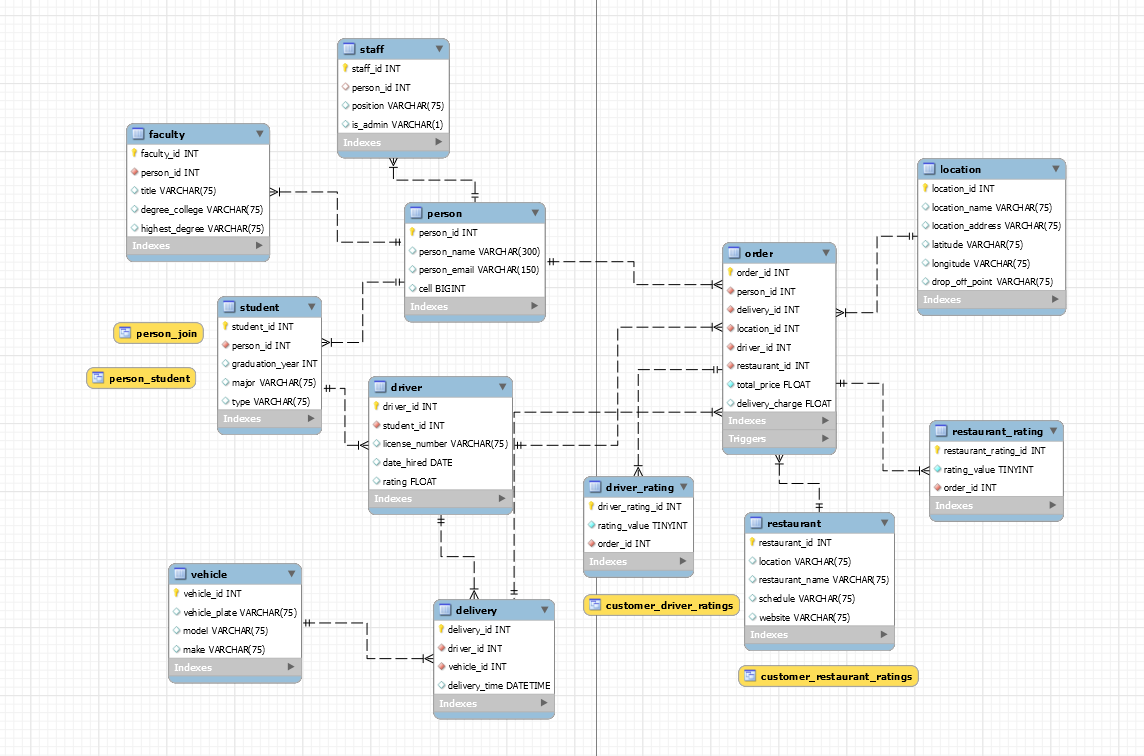
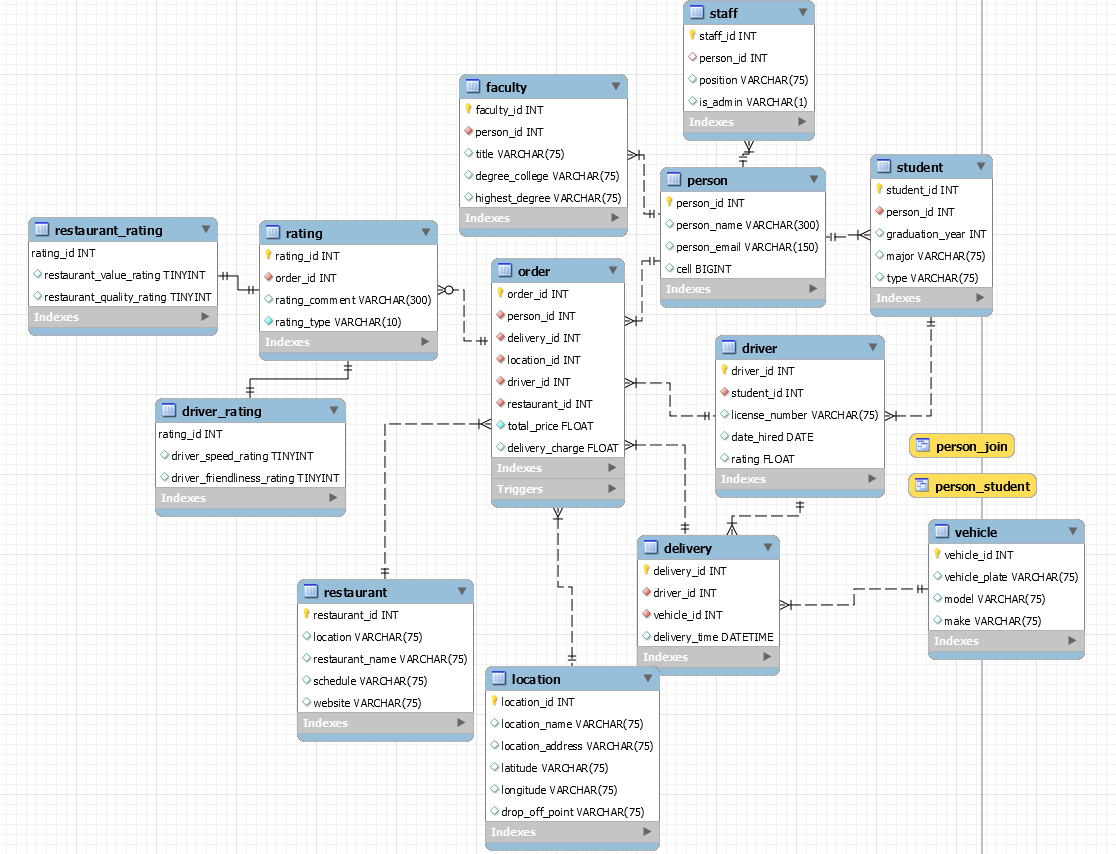
Update DB schema to match new business rule
This change was done to meet the requirement for super type and subtype entities

Changed region(s): [[0.0, 0.0, 0.9749, 1.0], [0.853, 0.8214, 0.8835, 0.8519]]

diff --git a/Deliverables/Milestone 2/database_dictionary.html b/Deliverables/Milestone 2/database_dictionary.html
@@ -38,6 +38,7 @@
 <li><a href="#location">location </a></li>
 <li><a href="#order">order </a></li>
 <li><a href="#person">person </a></li>
+<li><a href="#rating">rating </a></li>
 <li><a href="#restaurant">restaurant </a></li>
 <li><a href="#restaurant_rating">restaurant_rating </a></li>
 <li><a href="#staff">staff </a></li>
@@ -56,10 +57,10 @@
         <th>Default</th>
         <th>Comment</th>
         </tr>
-<tr><td>delivery_id</td><td>INT</td><td>Yes</td><td>Yes</td><td>No</td><td></td><td></td></tr>
-<tr><td>driver_id</td><td>INT</td><td>Yes</td><td>No</td><td>Yes</td><td></td><td></td></tr>
-<tr><td>vehicle_id</td><td>INT</td><td>Yes</td><td>No</td><td>Yes</td><td></td><td></td></tr>
-<tr><td>delivery_time</td><td>DATETIME</td><td>No</td><td>No</td><td>No</td><td>NULL</td><td></td></tr>
+<tr><td>delivery_id</td><td>INT</td><td>No</td><td>Yes</td><td>No</td><td></td><td></td></tr>
+<tr><td>driver_id</td><td>INT</td><td>No</td><td>No</td><td>Yes</td><td></td><td></td></tr>
+<tr><td>vehicle_id</td><td>INT</td><td>No</td><td>No</td><td>Yes</td><td></td><td></td></tr>
+<tr><td>delivery_time</td><td>DATETIME</td><td>Yes</td><td>No</td><td>No</td><td>NULL</td><td></td></tr>
 </table><a href="#home">Table List </a></br>
 <a id="driver"></a><table style="width:100%"><caption>Table: driver </caption>
 <tr><td>Table Comments</td><td colspan="6"></td></tr>
@@ -73,14 +74,14 @@
         <th>Default</th>
         <th>Comment</th>
         </tr>
-<tr><td>driver_id</td><td>INT</td><td>Yes</td><td>Yes</td><td>No</td><td></td><td></td></tr>
-<tr><td>student_id</td><td>INT</td><td>Yes</td><td>No</td><td>Yes</td><td></td><td></td></tr>
-<tr><td>license_number</td><td>VARCHAR(75)</td><td>No</td><td>No</td><td>No</td><td>NULL</td><td></td></tr>
-<tr><td>date_hired</td><td>DATE</td><td>No</td><td>No</td><td>No</td><td>NULL</td><td></td></tr>
-<tr><td>rating</td><td>FLOAT</td><td>No</td><td>No</td><td>No</td><td>NULL</td><td></td></tr>
+<tr><td>driver_id</td><td>INT</td><td>No</td><td>Yes</td><td>No</td><td></td><td></td></tr>
+<tr><td>student_id</td><td>INT</td><td>No</td><td>No</td><td>Yes</td><td></td><td></td></tr>
+<tr><td>license_number</td><td>VARCHAR(75)</td><td>Yes</td><td>No</td><td>No</td><td>NULL</td><td></td></tr>
+<tr><td>date_hired</td><td>DATE</td><td>Yes</td><td>No</td><td>No</td><td>NULL</td><td></td></tr>
+<tr><td>rating</td><td>FLOAT</td><td>Yes</td><td>No</td><td>No</td><td>NULL</td><td></td></tr>
 </table><a href="#home">Table List </a></br>
 <a id="driver_rating"></a><table style="width:100%"><caption>Table: driver_rating </caption>
-<tr><td>Table Comments</td><td colspan="6">Tracks individual ratings for restaurants</td></tr>
+<tr><td>Table Comments</td><td colspan="6">Track values for driver ratings</td></tr>
 <tr><td colspan="7">Columns</td></tr>
         <tr>
         <th>Name</th>
@@ -91,9 +92,9 @@
         <th>Default</th>
         <th>Comment</th>
         </tr>
-<tr><td>driver_rating_id</td><td>INT</td><td>Yes</td><td>Yes</td><td>No</td><td></td><td></td></tr>
-<tr><td>rating_value</td><td>TINYINT</td><td>Yes</td><td>No</td><td>No</td><td></td><td></td></tr>
-<tr><td>order_id</td><td>INT</td><td>Yes</td><td>No</td><td>Yes</td><td></td><td></td></tr>
+<tr><td>rating_id</td><td>INT</td><td>No</td><td>Yes</td><td>Yes</td><td></td><td></td></tr>
+<tr><td>driver_speed_rating</td><td>TINYINT</td><td>Yes</td><td>No</td><td>No</td><td>NULL</td><td></td></tr>
+<tr><td>driver_friendliness_rating</td><td>TINYINT</td><td>Yes</td><td>No</td><td>No</td><td>NULL</td><td></td></tr>
 </table><a href="#home">Table List </a></br>
 <a id="faculty"></a><table style="width:100%"><caption>Table: faculty </caption>
 <tr><td>Table Comments</td><td colspan="6"></td></tr>
@@ -107,11 +108,11 @@
         <th>Default</th>
         <th>Comment</th>
         </tr>
-<tr><td>faculty_id</td><td>INT</td><td>Yes</td><td>Yes</td><td>No</td><td></td><td></td></tr>
-<tr><td>person_id</td><td>INT</td><td>Yes</td><td>No</td><td>Yes</td><td></td><td></td></tr>
-<tr><td>title</td><td>VARCHAR(75)</td><td>No</td><td>No</td><td>No</td><td>NULL</td><td></td></tr>
-<tr><td>degree_college</td><td>VARCHAR(75)</td><td>No</td><td>No</td><td>No</td><td>NULL</td><td></td></tr>
-<tr><td>highest_degree</td><td>VARCHAR(75)</td><td>No</td><td>No</td><td>No</td><td>NULL</td><td></td></tr>
+<tr><td>faculty_id</td><td>INT</td><td>No</td><td>Yes</td><td>No</td><td></td><td></td></tr>
+<tr><td>person_id</td><td>INT</td><td>No</td><td>No</td><td>Yes</td><td></td><td></td></tr>
+<tr><td>title</td><td>VARCHAR(75)</td><td>Yes</td><td>No</td><td>No</td><td>NULL</td><td></td></tr>
+<tr><td>degree_college</td><td>VARCHAR(75)</td><td>Yes</td><td>No</td><td>No</td><td>NULL</td><td></td></tr>
+<tr><td>highest_degree</td><td>VARCHAR(75)</td><td>Yes</td><td>No</td><td>No</td><td>NULL</td><td></td></tr>
 </table><a href="#home">Table List </a></br>
 <a id="location"></a><table style="width:100%"><caption>Table: location </caption>
 <tr><td>Table Comments</td><td colspan="6"></td></tr>
@@ -125,12 +126,12 @@
         <th>Default</th>
         <th>Comment</th>
         </tr>
-<tr><td>location_id</td><td>INT</td><td>Yes</td><td>Yes</td><td>No</td><td></td><td></td></tr>
-<tr><td>location_name</td><td>VARCHAR(75)</td><td>No</td><td>No</td><td>No</td><td>NULL</td><td></td></tr>
-<tr><td>location_address</td><td>VARCHAR(75)</td><td>No</td><td>No</td><td>No</td><td>NULL</td><td></td></tr>
-<tr><td>latitude</td><td>VARCHAR(75)</td><td>No</td><td>No</td><td>No</td><td>NULL</td><td></td></tr>
-<tr><td>longitude</td><td>VARCHAR(75)</td><td>No</td><td>No</td><td>No</td><td>NULL</td><td></td></tr>
-<tr><td>drop_off_point</td><td>VARCHAR(75)</td><td>No</td><td>No</td><td>No</td><td>NULL</td><td></td></tr>
+<tr><td>location_id</td><td>INT</td><td>No</td><td>Yes</td><td>No</td><td></td><td></td></tr>
+<tr><td>location_name</td><td>VARCHAR(75)</td><td>Yes</td><td>No</td><td>No</td><td>NULL</td><td></td></tr>
+<tr><td>location_address</td><td>VARCHAR(75)</td><td>Yes</td><td>No</td><td>No</td><td>NULL</td><td></td></tr>
+<tr><td>latitude</td><td>VARCHAR(75)</td><td>Yes</td><td>No</td><td>No</td><td>NULL</td><td></td></tr>
+<tr><td>longitude</td><td>VARCHAR(75)</td><td>Yes</td><td>No</td><td>No</td><td>NULL</td><td></td></tr>
+<tr><td>drop_off_point</td><td>VARCHAR(75)</td><td>Yes</td><td>No</td><td>No</td><td>NULL</td><td></td></tr>
 </table><a href="#home">Table List </a></br>
 <a id="order"></a><table style="width:100%"><caption>Table: order </caption>
 <tr><td>Table Comments</td><td colspan="6"></td></tr>
@@ -144,14 +145,14 @@
         <th>Default</th>
         <th>Comment</th>
         </tr>
-<tr><td>order_id</td><td>INT</td><td>Yes</td><td>Yes</td><td>No</td><td></td><td></td></tr>
-<tr><td>person_id</td><td>INT</td><td>Yes</td><td>No</td><td>Yes</td><td></td><td></td></tr>
-<tr><td>delivery_id</td><td>INT</td><td>Yes</td><td>No</td><td>Yes</td><td></td><td></td></tr>
-<tr><td>location_id</td><td>INT</td><td>Yes</td><td>No</td><td>Yes</td><td></td><td></td></tr>
-<tr><td>driver_id</td><td>INT</td><td>Yes</td><td>No</td><td>Yes</td><td></td><td></td></tr>
-<tr><td>restaurant_id</td><td>INT</td><td>Yes</td><td>No</td><td>Yes</td><td></td><td></td></tr>
-<tr><td>total_price</td><td>FLOAT</td><td>Yes</td><td>No</td><td>No</td><td></td><td></td></tr>
-<tr><td>delivery_charge</td><td>FLOAT</td><td>No</td><td>No</td><td>No</td><td>NULL</td><td></td></tr>
+<tr><td>order_id</td><td>INT</td><td>No</td><td>Yes</td><td>No</td><td></td><td></td></tr>
+<tr><td>person_id</td><td>INT</td><td>No</td><td>No</td><td>Yes</td><td></td><td></td></tr>
+<tr><td>delivery_id</td><td>INT</td><td>No</td><td>No</td><td>Yes</td><td></td><td></td></tr>
+<tr><td>location_id</td><td>INT</td><td>No</td><td>No</td><td>Yes</td><td></td><td></td></tr>
+<tr><td>driver_id</td><td>INT</td><td>No</td><td>No</td><td>Yes</td><td></td><td></td></tr>
+<tr><td>restaurant_id</td><td>INT</td><td>No</td><td>No</td><td>Yes</td><td></td><td></td></tr>
+<tr><td>total_price</td><td>FLOAT</td><td>No</td><td>No</td><td>No</td><td></td><td></td></tr>
+<tr><td>delivery_charge</td><td>FLOAT</td><td>Yes</td><td>No</td><td>No</td><td>NULL</td><td></td></tr>
 </table><a href="#home">Table List </a></br>
 <a id="person"></a><table style="width:100%"><caption>Table: person </caption>
 <tr><td>Table Comments</td><td colspan="6"></td></tr>
@@ -165,10 +166,27 @@
         <th>Default</th>
         <th>Comment</th>
         </tr>
-<tr><td>person_id</td><td>INT</td><td>Yes</td><td>Yes</td><td>No</td><td></td><td></td></tr>
-<tr><td>person_name</td><td>VARCHAR(300)</td><td>No</td><td>No</td><td>No</td><td>NULL</td><td></td></tr>
-<tr><td>person_email</td><td>VARCHAR(150)</td><td>No</td><td>No</td><td>No</td><td>NULL</td><td></td></tr>
-<tr><td>cell</td><td>BIGINT</td><td>No</td><td>No</td><td>No</td><td>NULL</td><td></td></tr>
+<tr><td>person_id</td><td>INT</td><td>No</td><td>Yes</td><td>No</td><td></td><td></td></tr>
+<tr><td>person_name</td><td>VARCHAR(300)</td><td>Yes</td><td>No</td><td>No</td><td>NULL</td><td></td></tr>
+<tr><td>person_email</td><td>VARCHAR(150)</td><td>Yes</td><td>No</td><td>No</td><td>NULL</td><td></td></tr>
+<tr><td>cell</td><td>BIGINT</td><td>Yes</td><td>No</td><td>No</td><td>NULL</td><td></td></tr>
+</table><a href="#home">Table List </a></br>
+<a id="rating"></a><table style="width:100%"><caption>Table: rating </caption>
+<tr><td>Table Comments</td><td colspan="6">Stores values and comments for all ratings, plus which type of rating it is.</td></tr>
+<tr><td colspan="7">Columns</td></tr>
+        <tr>
+        <th>Name</th>
+        <th>Data Type</th>
+        <th>Nullable</th>
+        <th>PK</th>
+        <th>FK</th>
+        <th>Default</th>
+        <th>Comment</th>
+        </tr>
+<tr><td>rating_id</td><td>INT</td><td>No</td><td>Yes</td><td>No</td><td></td><td></td></tr>
+<tr><td>order_id</td><td>INT</td><td>No</td><td>No</td><td>Yes</td><td></td><td></td></tr>
+<tr><td>rating_comment</td><td>VARCHAR(300)</td><td>Yes</td><td>No</td><td>No</td><td>NULL</td><td></td></tr>
+<tr><td>rating_type</td><td>VARCHAR(10)</td><td>No</td><td>No</td><td>No</td><td></td><td></td></tr>
 </table><a href="#home">Table List </a></br>
 <a id="restaurant"></a><table style="width:100%"><caption>Table: restaurant </caption>
 <tr><td>Table Comments</td><td colspan="6"></td></tr>
@@ -182,14 +200,14 @@
         <th>Default</th>
         <th>Comment</th>
         </tr>
-<tr><td>restaurant_id</td><td>INT</td><td>Yes</td><td>Yes</td><td>No</td><td></td><td></td></tr>
-<tr><td>location</td><td>VARCHAR(75)</td><td>No</td><td>No</td><td>No</td><td>NULL</td><td></td></tr>
-<tr><td>restaurant_name</td><td>VARCHAR(75)</td><td>No</td><td>No</td><td>No</td><td>NULL</td><td></td></tr>
-<tr><td>schedule</td><td>VARCHAR(75)</td><td>No</td><td>No</td><td>No</td><td>NULL</td><td></td></tr>
-<tr><td>website</td><td>VARCHAR(75)</td><td>No</td><td>No</td><td>No</td><td>NULL</td><td></td></tr>
+<tr><td>restaurant_id</td><td>INT</td><td>No</td><td>Yes</td><td>No</td><td></td><td></td></tr>
+<tr><td>location</td><td>VARCHAR(75)</td><td>Yes</td><td>No</td><td>No</td><td>NULL</td><td></td></tr>
+<tr><td>restaurant_name</td><td>VARCHAR(75)</td><td>Yes</td><td>No</td><td>No</td><td>NULL</td><td></td></tr>
+<tr><td>schedule</td><td>VARCHAR(75)</td><td>Yes</td><td>No</td><td>No</td><td>NULL</td><td></td></tr>
+<tr><td>website</td><td>VARCHAR(75)</td><td>Yes</td><td>No</td><td>No</td><td>NULL</td><td></td></tr>
 </table><a href="#home">Table List </a></br>
 <a id="restaurant_rating"></a><table style="width:100%"><caption>Table: restaurant_rating </caption>
-<tr><td>Table Comments</td><td colspan="6">Tracks individual ratings for restaurants</td></tr>
+<tr><td>Table Comments</td><td colspan="6">Track values for restaraunt ratings. Restaraunts can be rated on their value (was the food affordable?) and their quality (did it taste good?)</td></tr>
 <tr><td colspan="7">Columns</td></tr>
         <tr>
         <th>Name</th>
@@ -200,9 +218,9 @@
         <th>Default</th>
         <th>Comment</th>
         </tr>
-<tr><td>restaurant_rating_id</td><td>INT</td><td>Yes</td><td>Yes</td><td>No</td><td></td><td></td></tr>
-<tr><td>rating_value</td><td>TINYINT</td><td>Yes</td><td>No</td><td>No</td><td></td><td></td></tr>
-<tr><td>order_id</td><td>INT</td><td>Yes</td><td>No</td><td>Yes</td><td></td><td></td></tr>
+<tr><td>rating_id</td><td>INT</td><td>No</td><td>Yes</td><td>Yes</td><td></td><td></td></tr>
+<tr><td>restaurant_value_rating</td><td>TINYINT</td><td>Yes</td><td>No</td><td>No</td><td>NULL</td><td></td></tr>
+<tr><td>restaurant_quality_rating</td><td>TINYINT</td><td>Yes</td><td>No</td><td>No</td><td>NULL</td><td></td></tr>
 </table><a href="#home">Table List </a></br>
 <a id="staff"></a><table style="width:100%"><caption>Table: staff </caption>
 <tr><td>Table Comments</td><td colspan="6"></td></tr>
@@ -216,10 +234,10 @@
         <th>Default</th>
         <th>Comment</th>
         </tr>
-<tr><td>staff_id</td><td>INT</td><td>Yes</td><td>Yes</td><td>No</td><td></td><td></td></tr>
-<tr><td>person_id</td><td>INT</td><td>No</td><td>No</td><td>Yes</td><td>NULL</td><td></td></tr>
-<tr><td>position</td><td>VARCHAR(75)</td><td>No</td><td>No</td><td>No</td><td>NULL</td><td></td></tr>
-<tr><td>is_admin</td><td>VARCHAR(1)</td><td>No</td><td>No</td><td>No</td><td>'N'</td><td></td></tr>
+<tr><td>staff_id</td><td>INT</td><td>No</td><td>Yes</td><td>No</td><td></td><td></td></tr>
+<tr><td>person_id</td><td>INT</td><td>Yes</td><td>No</td><td>Yes</td><td>NULL</td><td></td></tr>
+<tr><td>position</td><td>VARCHAR(75)</td><td>Yes</td><td>No</td><td>No</td><td>NULL</td><td></td></tr>
+<tr><td>is_admin</td><td>VARCHAR(1)</td><td>Yes</td><td>No</td><td>No</td><td>'N'</td><td></td></tr>
 </table><a href="#home">Table List </a></br>
 <a id="student"></a><table style="width:100%"><caption>Table: student </caption>
 <tr><td>Table Comments</td><td colspan="6"></td></tr>
@@ -233,11 +251,11 @@
         <th>Default</th>
         <th>Comment</th>
         </tr>
-<tr><td>student_id</td><td>INT</td><td>Yes</td><td>Yes</td><td>No</td><td></td><td></td></tr>
-<tr><td>person_id</td><td>INT</td><td>Yes</td><td>No</td><td>Yes</td><td></td><td></td></tr>
-<tr><td>graduation_year</td><td>INT</td><td>No</td><td>No</td><td>No</td><td>NULL</td><td></td></tr>
-<tr><td>major</td><td>VARCHAR(75)</td><td>No</td><td>No</td><td>No</td><td>NULL</td><td></td></tr>
-<tr><td>type</td><td>VARCHAR(75)</td><td>No</td><td>No</td><td>No</td><td>NULL</td><td></td></tr>
+<tr><td>student_id</td><td>INT</td><td>No</td><td>Yes</td><td>No</td><td></td><td></td></tr>
+<tr><td>person_id</td><td>INT</td><td>No</td><td>No</td><td>Yes</td><td></td><td></td></tr>
+<tr><td>graduation_year</td><td>INT</td><td>Yes</td><td>No</td><td>No</td><td>NULL</td><td></td></tr>
+<tr><td>major</td><td>VARCHAR(75)</td><td>Yes</td><td>No</td><td>No</td><td>NULL</td><td></td></tr>
+<tr><td>type</td><td>VARCHAR(75)</td><td>Yes</td><td>No</td><td>No</td><td>NULL</td><td></td></tr>
 </table><a href="#home">Table List </a></br>
 <a id="vehicle"></a><table style="width:100%"><caption>Table: vehicle </caption>
 <tr><td>Table Comments</td><td colspan="6"></td></tr>
@@ -251,9 +269,9 @@
         <th>Default</th>
         <th>Comment</th>
         </tr>
-<tr><td>vehicle_id</td><td>INT</td><td>Yes</td><td>Yes</td><td>No</td><td></td><td></td></tr>
-<tr><td>vehicle_plate</td><td>VARCHAR(75)</td><td>No</td><td>No</td><td>No</td><td>NULL</td><td></td></tr>
-<tr><td>model</td><td>VARCHAR(75)</td><td>No</td><td>No</td><td>No</td><td>NULL</td><td></td></tr>
-<tr><td>make</td><td>VARCHAR(75)</td><td>No</td><td>No</td><td>No</td><td>NULL</td><td></td></tr>
+<tr><td>vehicle_id</td><td>INT</td><td>No</td><td>Yes</td><td>No</td><td></td><td></td></tr>
+<tr><td>vehicle_plate</td><td>VARCHAR(75)</td><td>Yes</td><td>No</td><td>No</td><td>NULL</td><td></td></tr>
+<tr><td>model</td><td>VARCHAR(75)</td><td>Yes</td><td>No</td><td>No</td><td>NULL</td><td></td></tr>
+<tr><td>make</td><td>VARCHAR(75)</td><td>Yes</td><td>No</td><td>No</td><td>NULL</td><td></td></tr>
 </table><a href="#home">Table List </a></br>
 </body></html>
